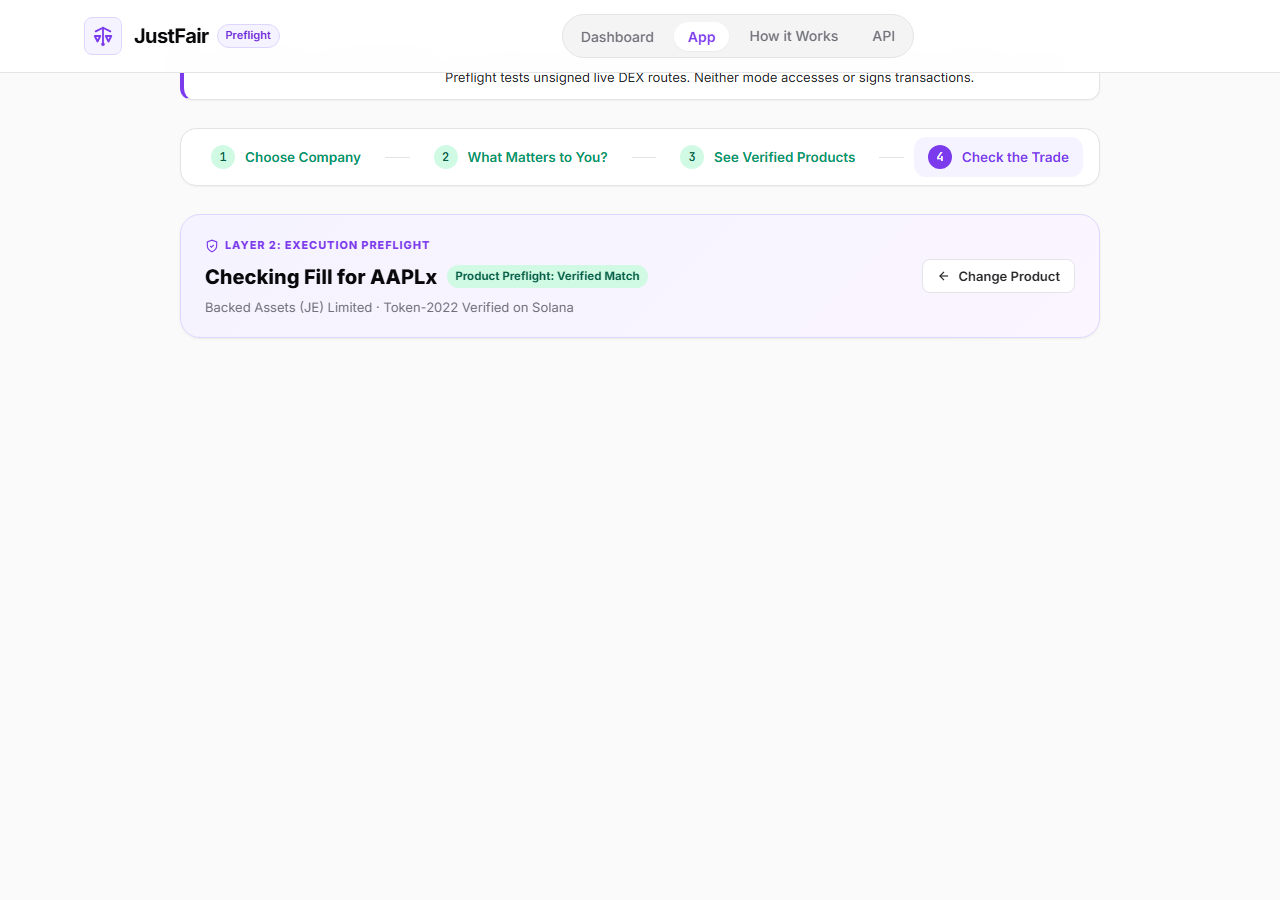
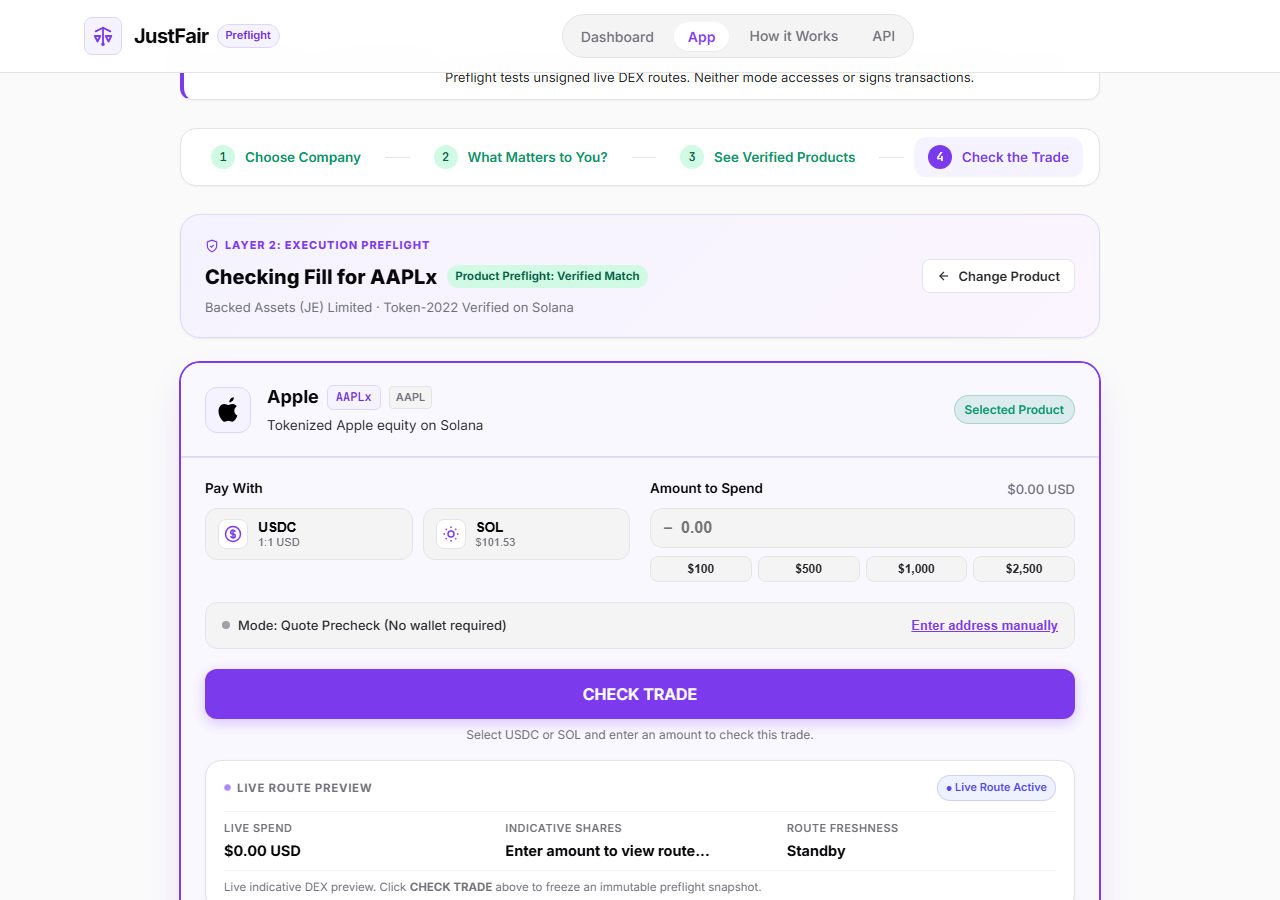
fix(check6): reveal dynamically rendered Step 4 card, add painted-box regression (Director Order 013.6)

diff --git a/test/browser.test.js b/test/browser.test.js
@@ -375,6 +375,13 @@ async function runBrowserTests() {
         throw new Error("CHECK TRADE must start disabled until asset + amount are explicit");
       }
 
+      // 013.6: the handed-off card must be actually painted, not just in DOM.
+      // (Scroll-reveal leaves dynamically created cards at opacity 0.)
+      const paintedOpacity = await page.$eval("#stock-card-AAPLx", el => window.getComputedStyle(el).opacity);
+      if (paintedOpacity !== "1") {
+        throw new Error(`Step 4 card is transparent (opacity ${paintedOpacity}); owner sees a blank area`);
+      }
+
       await page.screenshot({ path: path.join(EVIDENCE_DIR, "13_desktop_product_to_execution.png") });
     });
 
@@ -533,6 +540,73 @@ async function runBrowserTests() {
 
       await page.unroute("**/api/v1/preflight");
       await page.screenshot({ path: path.join(EVIDENCE_DIR, "14c_desktop_market_closed.png") });
+    });
+
+    // 14d. Owner-shape regression at wide desktop (Screenshot 14d)
+    await test("14d. Wide Desktop (1648x900): AAPLx Step 4 card truly painted with positive boxes", async () => {
+      const wideContext = await browser.newContext({ viewport: { width: 1648, height: 900 } });
+      const widePage = await wideContext.newPage();
+      try {
+        await widePage.goto(BASE_URL, { waitUntil: "networkidle" });
+        await widePage.click("#hero-open-app-btn");
+        await widePage.waitForSelector("#underlying-card-AAPL", { timeout: 15000 });
+        await widePage.click("#underlying-card-AAPL");
+        await widePage.waitForSelector("#exp-card-SELF_CUSTODY", { timeout: 15000 });
+        await widePage.click("#exp-card-SELF_CUSTODY .btn-must-have");
+        await widePage.click("#exp-card-ECONOMIC_DIVIDEND_BENEFIT .btn-must-have");
+        await widePage.click("#btn-submit-expectations");
+        await widePage.waitForSelector("#rep-card-AAPLx .btn-check-trade", { timeout: 15000 });
+        await widePage.click("#rep-card-AAPLx .btn-check-trade");
+        await widePage.waitForSelector("#step-4-container:not(.hidden)", { timeout: 15000 });
+        await widePage.waitForSelector("#stock-card-AAPLx", { timeout: 15000 });
+        await widePage.waitForTimeout(900); // pass the 0.75s reveal transition, if any
+
+        // DOM existence alone is not acceptance: assert painted boxes.
+        const paint = await widePage.evaluate(() => {
+          function box(sel, root = document) {
+            const el = root.querySelector(sel);
+            if (!el) return { exists: false };
+            const r = el.getBoundingClientRect();
+            return {
+              exists: true,
+              opacity: window.getComputedStyle(el).opacity,
+              display: window.getComputedStyle(el).display,
+              w: r.width, h: r.height
+            };
+          }
+          const card = document.getElementById("stock-card-AAPLx");
+          return {
+            card: box("#stock-card-AAPLx"),
+            usdc: box(".payment-tab[data-asset='USDC']", card),
+            sol: box(".payment-tab[data-asset='SOL']", card),
+            amount: box(".amount-input", card),
+            submit: box(".submit-trade-btn", card),
+            submitDisabled: card.querySelector(".submit-trade-btn")?.disabled ?? null
+          };
+        });
+
+        for (const key of ["card", "usdc", "sol", "amount", "submit"]) {
+          const b = paint[key];
+          if (!b.exists) throw new Error(`Wide Step 4 missing element: ${key}`);
+          if (!(b.w > 0 && b.h > 0)) throw new Error(`Wide Step 4 zero box for ${key}: ${b.w}x${b.h}`);
+        }
+        if (paint.card.opacity !== "1") {
+          throw new Error(`Wide Step 4 card transparent (opacity ${paint.card.opacity}): owner blank area`);
+        }
+        if (paint.submitDisabled !== true) throw new Error("Wide Step 4 CHECK TRADE must start disabled");
+
+        // And the wide path must still execute end to end.
+        await widePage.click("#stock-card-AAPLx .payment-tab[data-asset='USDC']");
+        await widePage.fill("#stock-card-AAPLx .amount-input", "500");
+        await widePage.click("#stock-card-AAPLx .submit-trade-btn");
+        await widePage.waitForSelector("#stock-card-AAPLx .inline-result-container:not(.hidden)", { timeout: 35000 });
+        const spendVal = await widePage.textContent("#stock-card-AAPLx .res-spend-val");
+        if (!spendVal.includes("$500.00")) throw new Error(`Wide spend mismatch: ${spendVal}`);
+
+        await widePage.screenshot({ path: path.join(EVIDENCE_DIR, "14d_wide_step4_painted.png") });
+      } finally {
+        await wideContext.close();
+      }
     });
 
     // 15. Mobile Viewport: Dashboard Hero (Screenshot 15)

diff --git a/public/app.js b/public/app.js
@@ -1787,7 +1787,11 @@ export function renderSingleStockCard(symbol) {
   };
 
   const cardEl = document.createElement("div");
-  cardEl.className = "stock-card-standalone is-expanded";
+  // is-revealed: this card is created dynamically after initScrollReveal ran,
+  // so the IntersectionObserver never sees it. Without this class the global
+  // scroll-reveal rule (.stock-card-standalone { opacity: 0 }) leaves the
+  // handed-off Step 4 card permanently invisible (owner Check 6 failure).
+  cardEl.className = "stock-card-standalone is-expanded is-revealed";
   cardEl.id = `stock-card-${symbol}`;
   cardEl.setAttribute("data-symbol", symbol);
   cardEl.setAttribute("data-category", meta.category);
